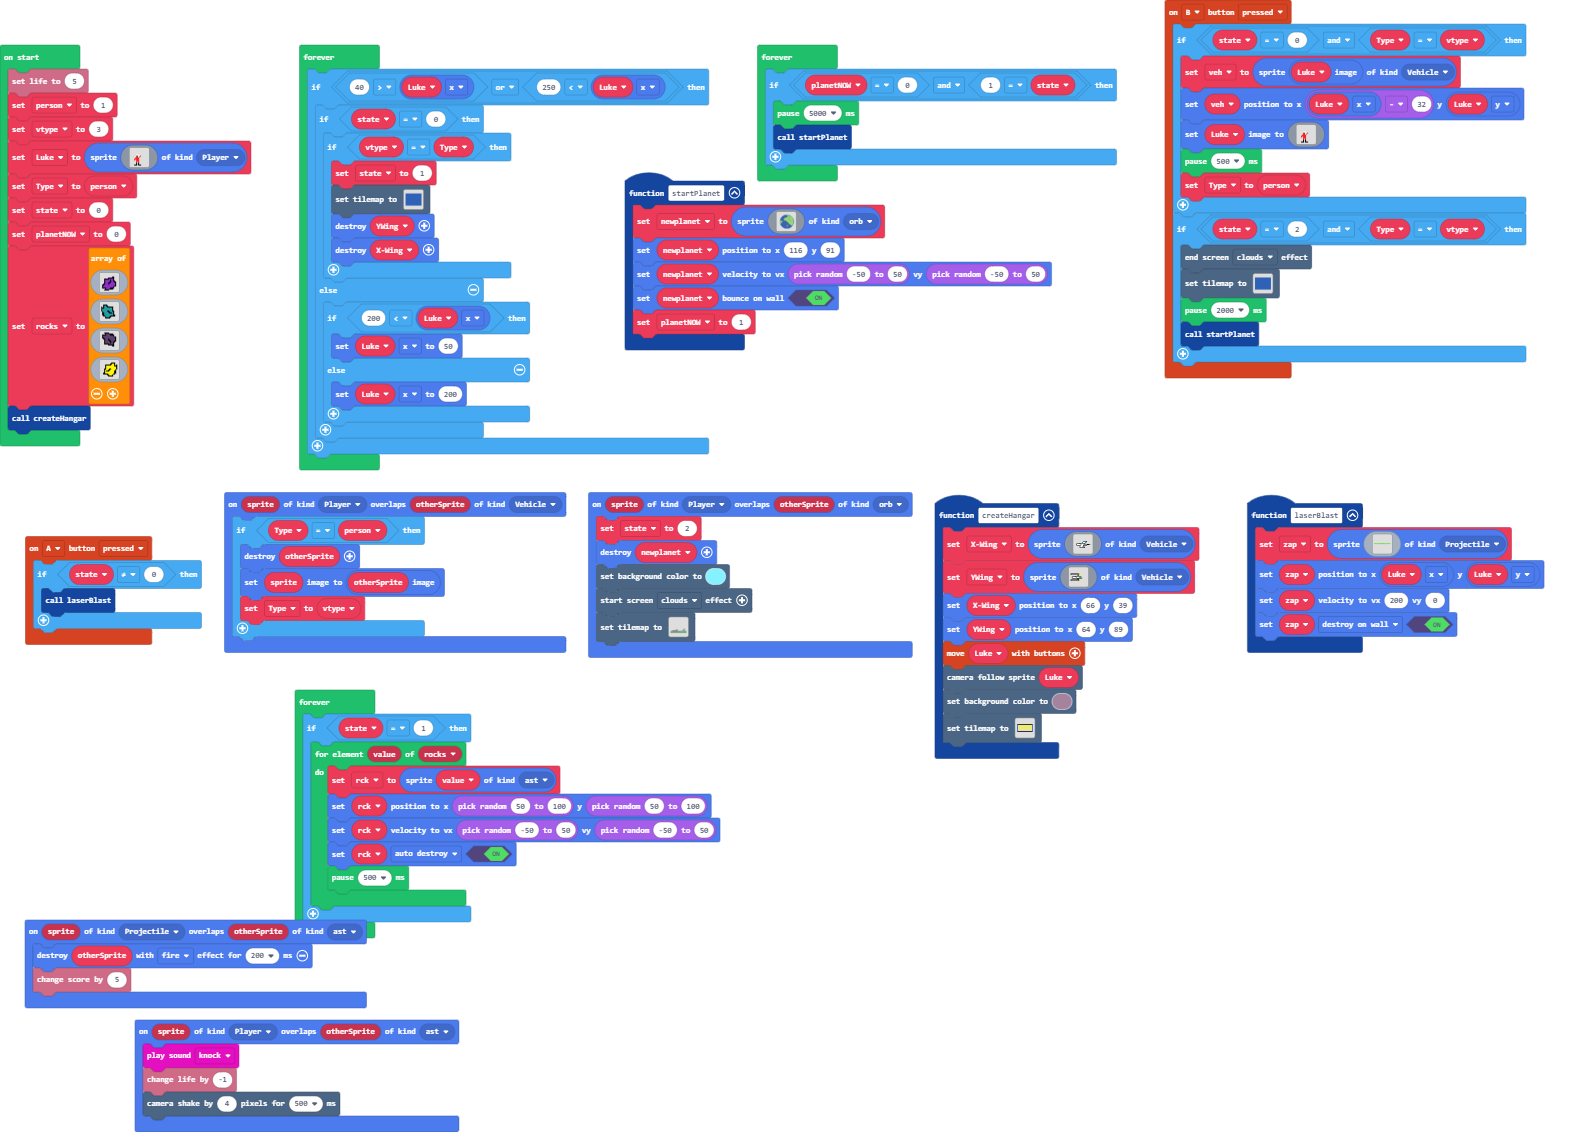
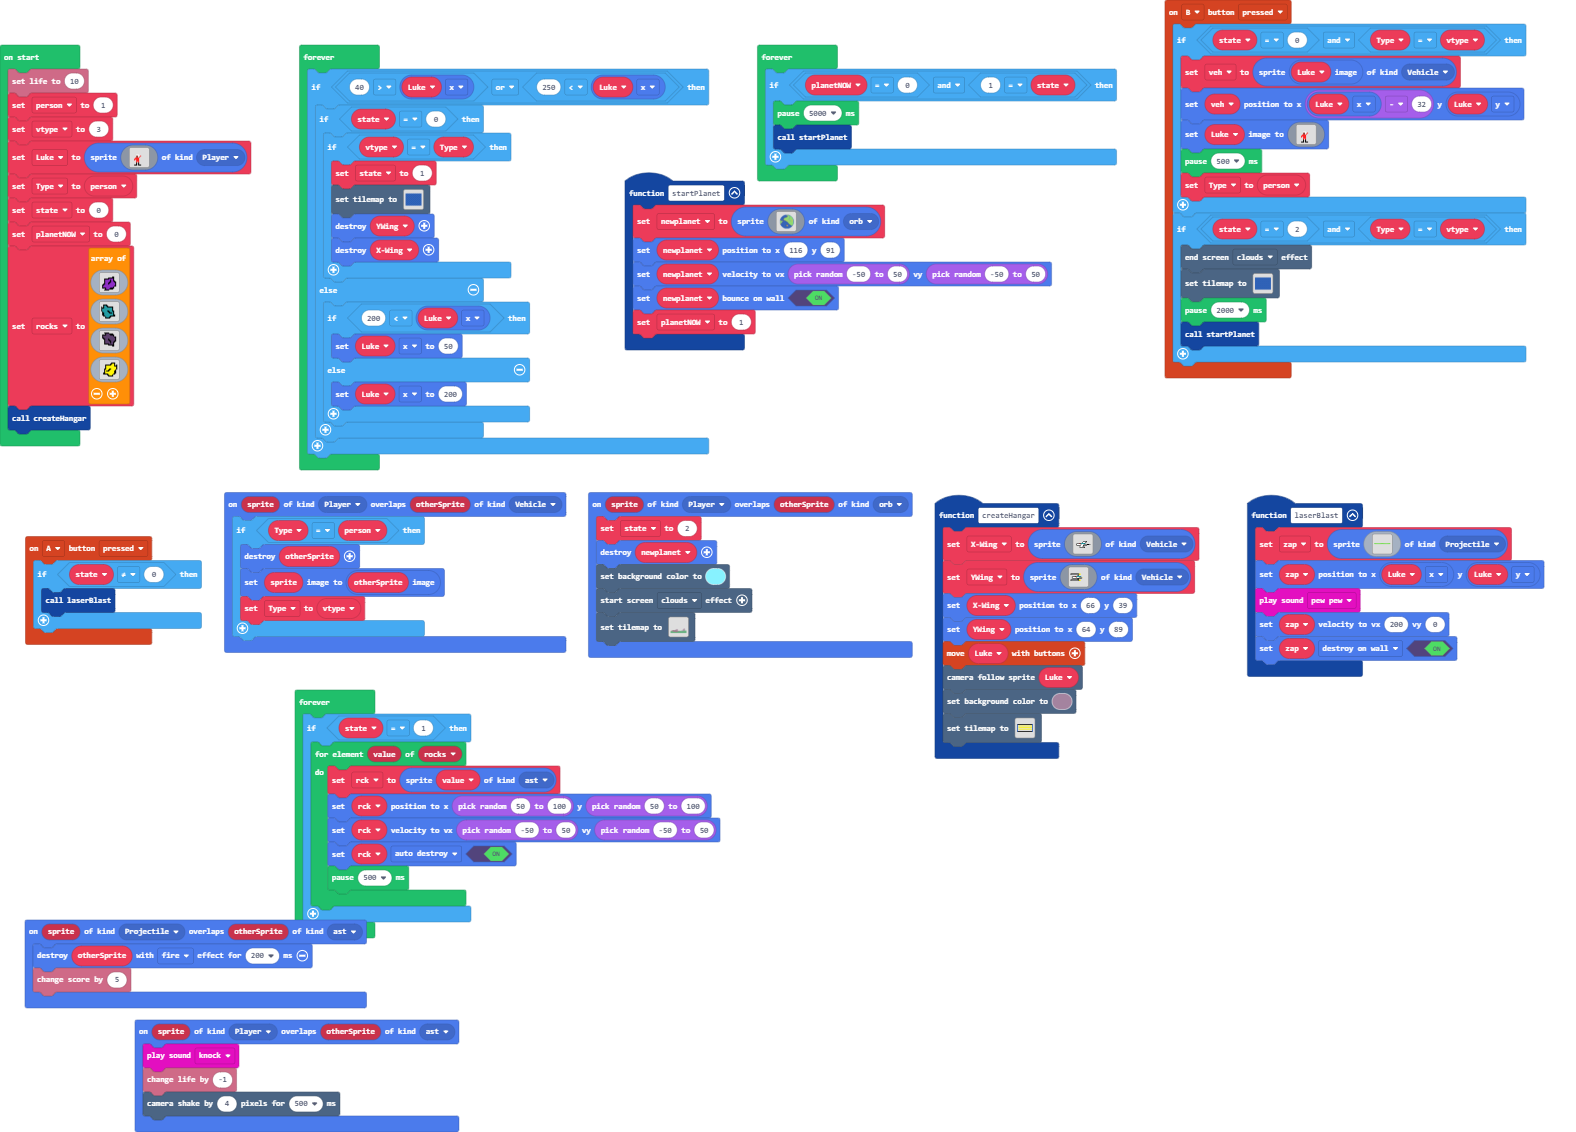
Update main.blocks, main.ts

Changed region(s): [[0.7773, 0.4947, 0.9327, 0.6184]]

diff --git a/main.ts b/main.ts
@@ -61,6 +61,7 @@ sprites.onOverlap(SpriteKind.Projectile, SpriteKind.ast, function (sprite, other
 function laserBlast () {
     zap = sprites.create(assets.image`laser`, SpriteKind.Projectile)
     zap.setPosition(Luke.x, Luke.y)
+    music.pewPew.play()
     zap.setVelocity(200, 0)
     zap.setFlag(SpriteFlag.DestroyOnWall, true)
 }
@@ -81,7 +82,7 @@ let Type = 0
 let Luke: Sprite = null
 let vtype = 0
 let person = 0
-info.setLife(5)
+info.setLife(10)
 person = 1
 vtype = 3
 Luke = sprites.create(assets.image`Pilot`, SpriteKind.Player)
